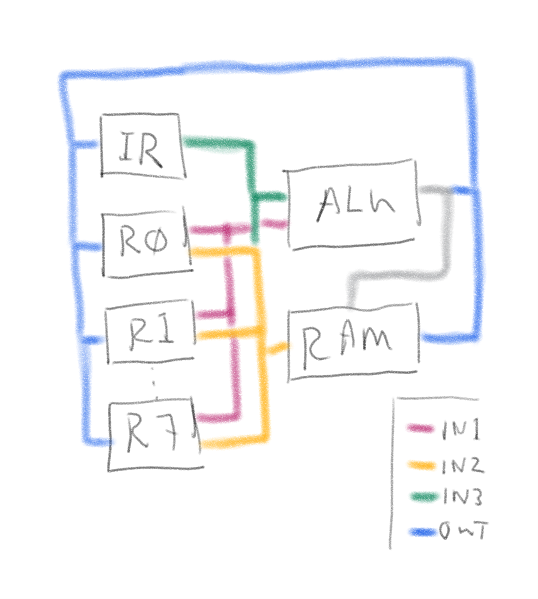
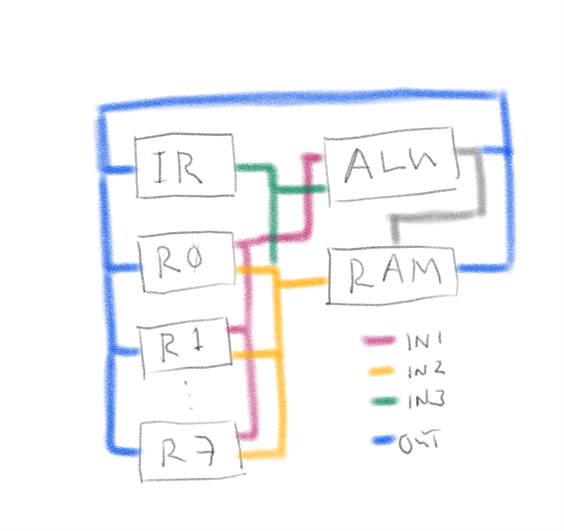
Arch

Changed region(s): [[0.0892, 0.0904, 0.9219, 0.904]]

diff --git a/readme.md b/readme.md
@@ -13,8 +13,9 @@
 
 ## Instruction set
 
-| Assembly | Bits | IN1 | IN2 | IN3 | OUT
-| -------- | ---- |:---:|:---:|:---:|:---:
+| Assembly         | Bits                  | IN1  | IN2| IN3 | OUT
+| ---------------- | --------------------- |:----:|:--:|:---:|:------:|
+| fetch            |                       | R7   |    | 0   | RAM->IR
 | ldr Rd, [Ra, #x] | `00dd daaa xxxx xxxx` | Ra   |    | IR  | RAM->Rd
 | str Rm, [Ra, #x] | `01mm maaa xxxx xxxx` | Ra   | Rm | IR  |
 | alu Ra, #x       | `10zz zaaa xxxx xxxx` | Ra   |    | IR  | ALU->Ra
@@ -24,6 +25,19 @@
 | lnk Ra           | `1110 0aaa 1111 xxxx` | R7   |    | IR  | ALU->Ra
 | alu Ra, Rm       | `1110 1aaa 0zzz 0mmm` | Ra   | Rm | IN2 | ALU->Ra
 | shu Ra, Rm       | `1110 1aaa 1zzz 0mmm` | Ra   | Rm | IN2 | ALU->Ra
+
+```txt
+R enable = fetch AND 7
+R enable = NOT fetch 
+
+RAM enable = fetch OR NOT b15
+ALU enable = NOT fetch AND b15
+
+IR load = fetch
+R load = NOT fetch AND NOT b15 AND NOT b14 AND Rd
+R load = NOT fetch AND b15 AND (NOT b14 OR b13) AND Ra
+R load = NOT fetch AND b15 AND (b14 AND NOT b13) AND 7
+```
 
 ## Condition codes
 
